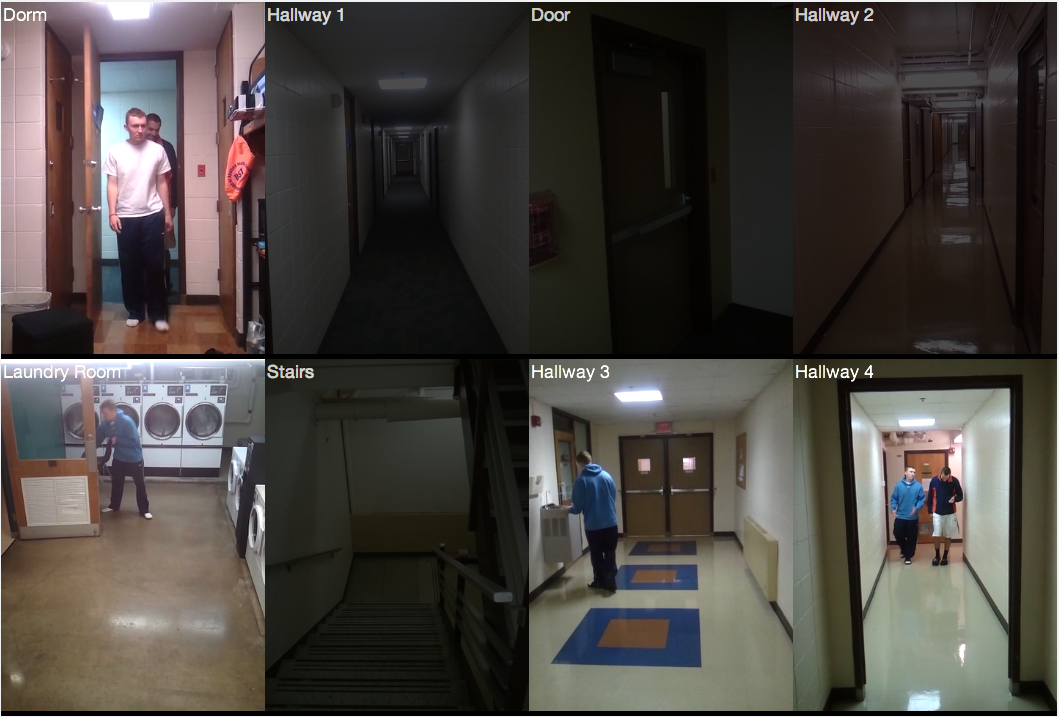
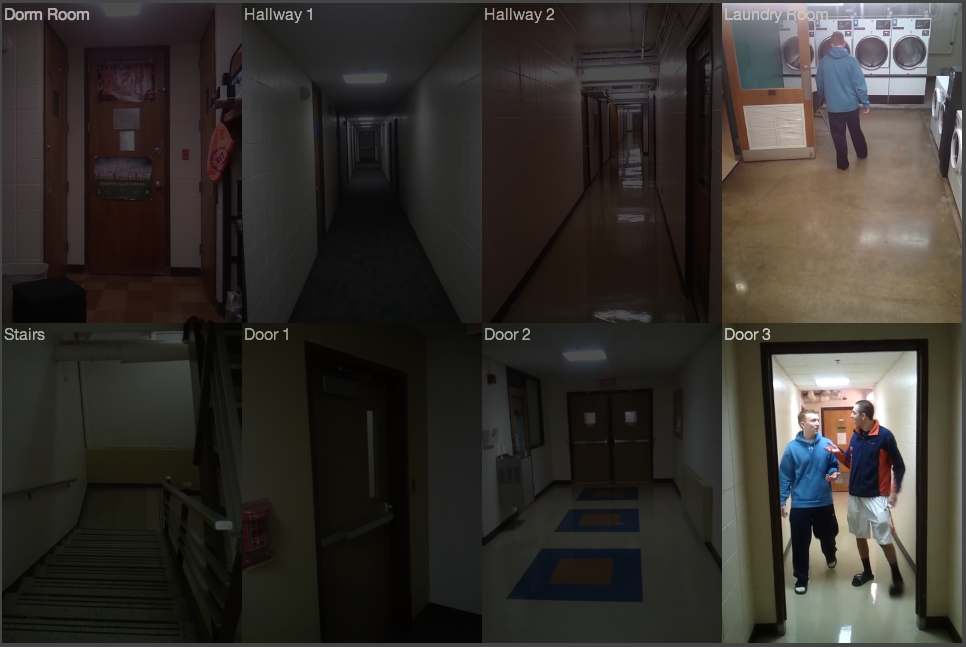
Eliminated unwanted spacing between videos in the grid

diff --git a/css/style.css b/css/style.css
@@ -9,25 +9,47 @@
 
 body {
 	margin: 0;
-	background-color: #F0F1F2;
+	background-color: #444;
 }
 
 table {
 	margin-left: auto;
 	margin-right:auto;
+	margin-top: 0;
+	margin-bottom: 0;
+	
 	background-color: #000000;
+	
 	border-spacing: 0;
+	border-collapse: collapse;
+	
+	outline-width:0;
+	outline: 0;
 	
 	border: 0;
 	padding: 0;
 }
 
-.videoHeader {
+tr, th, td {
+	border-collapse: collapse;
+	border-spacing: 0;
+	
 	outline-width:0;
+	outline: 0;
+	
+	margin: 0;
+	border: 0;
+	padding: 0;
+}
+
+.videoHeader {
 	position: absolute;
 	top: 2px;
 	left: 2px;
 	color: #C0C0C0;
+	
+	outline-width:0;
+	outline: 0;
 	
 	margin: 0;
 	border: 0;
@@ -43,16 +65,10 @@ table {
 }
 
 video {
-	outline-width:0;
+	display:block;
 	
-	margin: 0;
-	border: 0;
-	padding: 0;
-}
-
-tr, th, td {
-	border-spacing: 0;
 	outline-width:0;
+	outline: 0;
 	
 	margin: 0;
 	border: 0;

diff --git a/index.php b/index.php
@@ -36,7 +36,7 @@ $rowCount = getRowCount($videoCount);
 				echo '<td class="videoCell" id="videoCell-'.$videoFilename.'">';
 				echo '<div class="videoCellDiv">';
 				echo '<div class="videoHeader" id="videoHeader-'.$videoFilename.'">'.$video->getTitle().'</div>';
-				echo '<video width="'.$videoWidth.'" height="'.$videoHeight.'" loop autoplay controls="" id="video-'.$videoFilename.'">';
+				echo '<video width="'.$videoWidth.'" height="'.$videoHeight.'" muted loop autoplay controls="" id="video-'.$videoFilename.'">';
 				echo '<source src="videos/'.$videoFilename.'" />';
 				echo '</video>';
 				echo '</div>';
